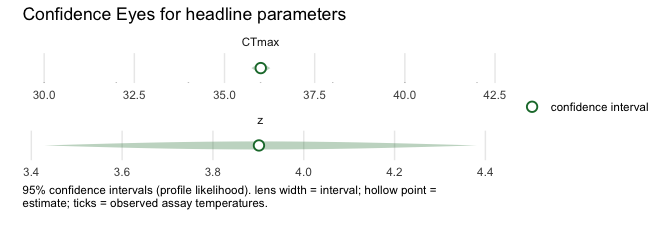
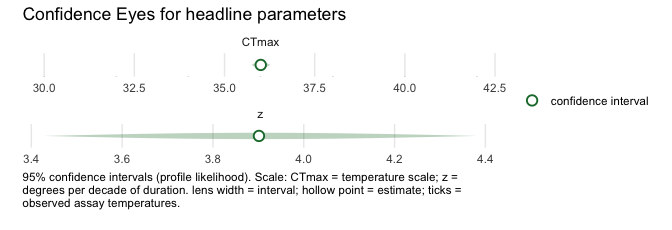
docs: resolve human validation findings

diff --git a/docs/dev-log/after-task/2026-07-18-human-validation-remediation.md b/docs/dev-log/after-task/2026-07-18-human-validation-remediation.md
@@ -1,0 +1,104 @@
+# After Task: Human-validation remediation for issues #15--#24
+
+## 1. Goal
+
+Resolve the findings from @itchyshin's assigned human-validation slice while
+keeping the experimental 0.1.0 reader boundary intact.
+
+## 2. Implemented
+
+The accessor reference now calls bootstrap rows resampled frequentist estimates,
+not posterior draws, and explains that the compatibility-named `*_median` field
+holds the maximum-likelihood point estimate. `predict.profile_tls()` and
+`tdt_parameter_table()` now define `CTmax`, `z`, `log_z`, `low`, `up`, and `k`.
+`plot_tdt_curve()` now defaults to each fitted curve's relative midpoint
+`(low + up) / 2`; a supplied numeric `p` is explicitly an absolute probability.
+Confidence-Eye captions state their parameter scale, and an all-open profile now
+has a visible compact warning. The stale Phase 4 text and the misleading
+homepage claim were removed. The rendered profile vignette was updated to
+describe the open-profile cue.
+
+## 3. Mathematical Contract
+
+No likelihood, 4PL parameterisation, or profile algorithm changed. The repair
+makes the plotting default agree with the existing relative-threshold contract:
+the plotted duration is evaluated at `(low + up) / 2`, whereas a numeric `p`
+requests an absolute survival probability. `CTmax` remains the critical thermal
+maximum at `tref`; `z` remains thermal sensitivity in degrees per decade.
+
+## 3a. Decisions and Rejected Alternatives
+
+The open-profile cue uses a short subtitle rather than a two-line help prompt:
+the longer wording clipped the title in the rendered vignette figure. The
+relative default was implemented in code rather than merely relabelling the old
+absolute `p = 0.5` behavior, because the old label and behavior disagreed.
+
+## 4. Files Touched
+
+Updated roxygen sources in `R/extract_tdt.R`, `R/predict.R`, `R/tls.R`,
+`R/profile.R`, and `R/plotting.R`; regenerated their Rd files and the README
+figure; updated `README.Rmd`, `README.md`, `vignettes/profile-likelihood.Rmd`,
+and `tests/testthat/test-predict.R`; recorded this check log and report.
+
+## 5. Checks Run
+
+- `Rscript --vanilla -e 'devtools::document(); devtools::build_readme(); devtools::check_man(); devtools::test(filter = "profile|predict")'` -> 110 passing, 0 failures, 0 warnings, 0 skips.
+- `Rscript --vanilla -e 'devtools::test()'` -> 1,046 passing, 0 failures, 0 warnings, 0 skips (128.4 seconds) on the final source.
+- `Rscript --vanilla -e 'pkgdown::check_pkgdown()'` -> `No problems found.`
+- `Rscript tools/build-site.R .` -> complete; public-site internal-file removal and six filled reference-image alt texts confirmed.
+- `rg -n -i 'posterior draws|full Confidence-Eye interval.*Phase 4|prose never uses "posterior"|Comment when your slice is complete' R README.Rmd README.md man pkgdown-site --glob '!pkgdown-site/search.json'` -> no unresolved issue wording; remaining hits are deliberate Bayesian comparisons or historical NEWS text.
+- `git diff --check` -> clean.
+
+## 6. Tests of the Tests
+
+The new `plot_tdt_curve()` test uses the fitted `low` and `up` values to compare
+the default plotted duration to an independent `derive_lt()` call at
+`(low + up) / 2`, and compares `p = 0.5` to the absolute-threshold result. The
+existing sparse-design test still exercises the all-open-profile warning; it
+initially caught a capitalization mismatch in the new subtitle, then passed
+after the wording was made compatible and visually compact.
+
+## 7a. Issue Ledger
+
+Issues #23 and #24 were resolved directly in tracker #14 and closed. The package
+changes address #15--#22; they remain open until this branch is merged, then
+will be closed with the merge evidence. Tracker #14 has all @itchyshin review
+items checked and links to the finding issues.
+
+## 8. Consistency Audit
+
+The rendered reference pages for `tdt-accessors`, `predict.profile_tls`,
+`tdt_parameter_table`, `plot_tdt_curve`, `plot.profile_tls_profile`, and
+`plot_confidence_eye`, plus the home page and profile-likelihood article, were
+rebuilt and read. The non-closing Confidence-Eye figure was visually inspected:
+it shows the open-profile warning, hollow point, and CTmax scale without clipping.
+No release-boundary change occurred, so `ROADMAP.md`, `NEWS.md`,
+`docs/dev-log/known-limitations.md`, and `docs/design/46-capability-matrix.md`
+remain accurate without an unrelated release-status edit.
+
+## 9. What Did Not Go Smoothly
+
+The first full-suite run caught an existing test expectation that was case
+sensitive; the repaired wording passed the targeted and final full runs. A
+two-line open-profile subtitle avoided horizontal clipping but created vertical
+title clipping in the rendered figure, so it was shortened and rebuilt.
+
+## 10. Known Residuals
+
+The dependency freshness notice for MASS, Rcpp, and rlang is environmental and
+does not affect the passing checks. This task does not establish a new CRAN
+candidate, alter author order, or replace the separate human reviews assigned
+to Piet, Patrice, and Dan.
+
+## 11. Team Learning
+
+Rendered visual inspection is necessary after a text-only figure change: a
+subtitle can pass the test suite while still crowding a figure title. Threshold
+defaults should be tested against the numerical calculation, not just their
+caption, whenever `relative` and `absolute` terms meet a plotting helper.
+
+## 12. Cross-Product Coverage
+
+This task covers the human-validation findings in #15--#24 and does NOT cover
+new model families, fit-time absolute thresholds, fitted heat-injury dynamics,
+or the remaining collaborators' review allocations.

diff --git a/docs/dev-log/check-log.md b/docs/dev-log/check-log.md
@@ -2755,3 +2755,29 @@ Evidence:
 Interpretation:
 
 - The merged source has a frozen, platform-clean technical candidate. This is not an upload or CRAN-acceptance claim: final `Authors@R` ordering remains for Dan and author approval before submission.
+
+## 2026-07-18 -- Human-validation remediation (#15--#24)
+
+Goal:
+
+- Resolve the documentation, reference-page, Confidence-Eye, threshold-semantics,
+  and tracker findings recorded from @itchyshin's assigned human-validation
+  slice.
+
+Checks and evidence:
+
+- `Rscript --vanilla -e 'devtools::document(); devtools::build_readme(); devtools::check_man(); devtools::test(filter = "profile|predict")'` -> 110 passing tests, 0 failures, 0 warnings, 0 skips. This includes the new default-relative-midpoint test for `plot_tdt_curve()` and the existing non-closing-profile display test.
+- `Rscript --vanilla -e 'devtools::test()'` -> 1,046 passing tests, 0 failures, 0 warnings, 0 skips (128.4 seconds) on the final source.
+- `Rscript tools/build-site.R .` -> completed; internal `AGENTS`, `CLAUDE`, and `SPEC` files removed from the public site, and alt text filled for six reference example figures.
+- `Rscript --vanilla -e 'pkgdown::check_pkgdown()'` -> `No problems found.`
+- `rg -n -i 'posterior draws|full Confidence-Eye interval.*Phase 4|prose never uses "posterior"|Comment when your slice is complete' R README.Rmd README.md man pkgdown-site --glob '!pkgdown-site/search.json'` -> only deliberate Bayesian-comparison or historical-news references remain; the accessor reference now explicitly identifies bootstrap refits as frequentist estimates.
+- `git diff --check` -> clean.
+
+Interpretation:
+
+- The public reference and rendered-site surfaces now distinguish frequentist
+  bootstrap refits from posterior draws, define direct model terms, state the
+  relative default used by `plot_tdt_curve()`, label Confidence-Eye scales, and
+  visibly identify open profile intervals. The tracker-only shrimp and
+  completion-comment items were corrected and closed without a package-source
+  change.

diff --git a/README.md b/README.md
@@ -41,10 +41,10 @@ responses in `(0, 1)` via the beta family.
 Its signature display is the **Confidence Eye**: a pale horizontal lens
 spanning the likelihood interval, with a hollow point estimate. These
 are likelihood *confidence* intervals, not posteriors, so the visual
-deliberately avoids posterior-density iconography, and the prose never
-uses “posterior” or “credible” language.
+deliberately avoids posterior-density iconography. freqTLS intervals are
+never described as “posterior” or “credible” intervals.
 
-<img src="man/figures/README-readme-eye-1.png" alt="Hero figure: a horizontal Confidence Eye for CTmax and z. Each parameter is a pale, shallow lens spanning its 95% profile-likelihood confidence interval, with a hollow point estimate at the maximum-likelihood value. The lens shape reads as an interval, not a probability density." width="100%" />
+<img src="man/figures/README-readme-eye-1.png" alt="Hero figure: horizontal Confidence Eyes for CTmax on the temperature scale and z in degrees per decade of duration. Each parameter is a pale, shallow lens spanning its 95% profile-likelihood confidence interval, with a hollow point estimate at the maximum-likelihood value. The lens shape reads as an interval, not a probability density." width="100%" />
 
 ## What freqTLS does
 